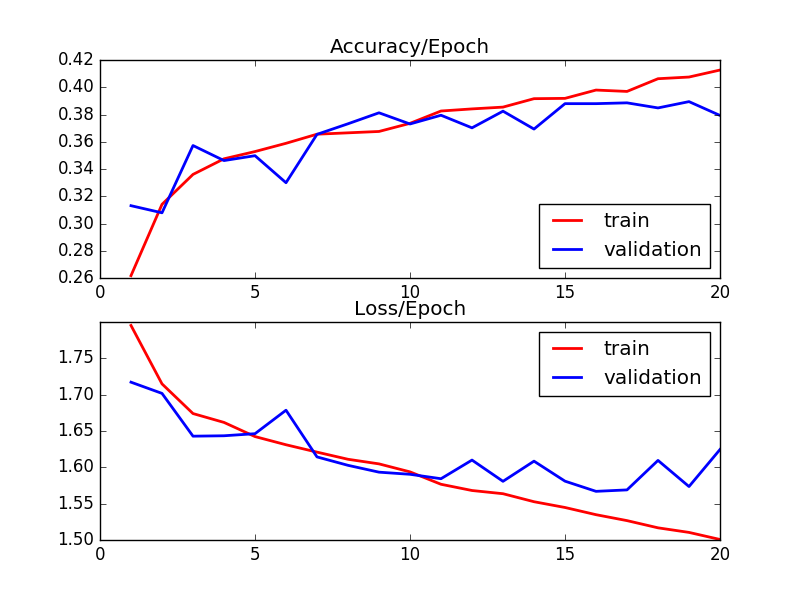
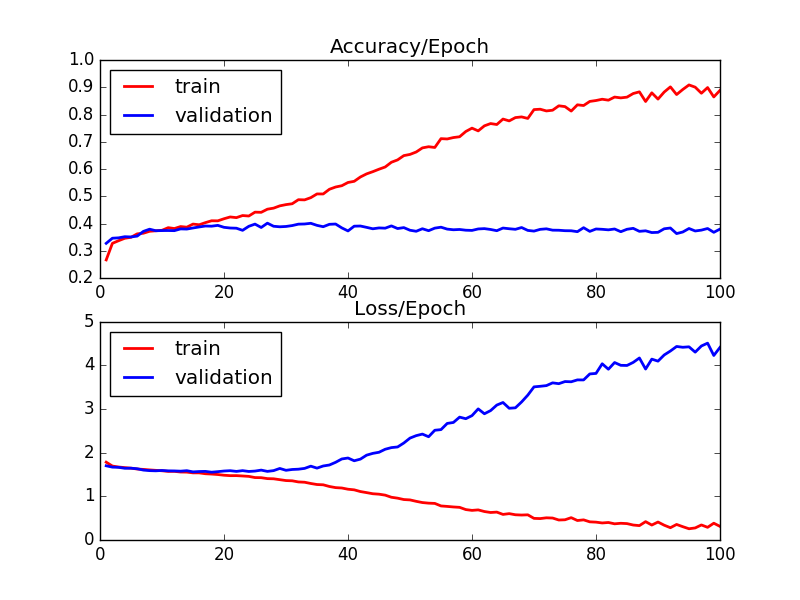
done

diff --git a/hw3/dnn/plot_graph.py b/hw3/dnn/plot_graph.py
@@ -22,15 +22,15 @@ ax1.set_title('Accuracy/Epoch')
 train_accur = [float(x[:-1]) for x in open('train_accuracy').readlines()]
 valid_accur = [float(x[:-1]) for x in open('valid_accuracy').readlines()]
 
-ax1.plot(list(range(1,21)),train_accur,color="red",label="train",lw=2)
-ax1.plot(list(range(1,21)),valid_accur,color="blue",label="validation",lw=2)
-ax1.legend(loc='lower right')
+ax1.plot(list(range(1,101)),train_accur,color="red",label="train",lw=2)
+ax1.plot(list(range(1,101)),valid_accur,color="blue",label="validation",lw=2)
+ax1.legend(loc='upper left')
 
 ax2.set_title('Loss/Epoch')
 train_accur = [float(x[:-1]) for x in open('train_loss').readlines()]
 valid_accur = [float(x[:-1]) for x in open('valid_loss').readlines()]
 
-ax2.plot(list(range(1,21)),train_accur,color="red",label="train",lw=2)
-ax2.plot(list(range(1,21)),valid_accur,color="blue",label="validation",lw=2)
-ax2.legend(loc='upper right')
+ax2.plot(list(range(1,101)),train_accur,color="red",label="train",lw=2)
+ax2.plot(list(range(1,101)),valid_accur,color="blue",label="validation",lw=2)
+ax2.legend(loc='upper left')
 fig.savefig('acccuracy_comp_dnn.png')
